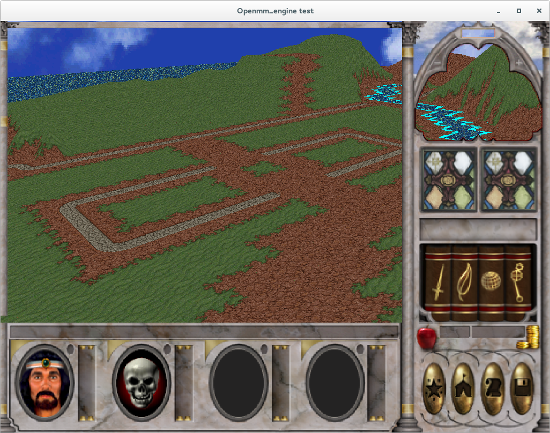
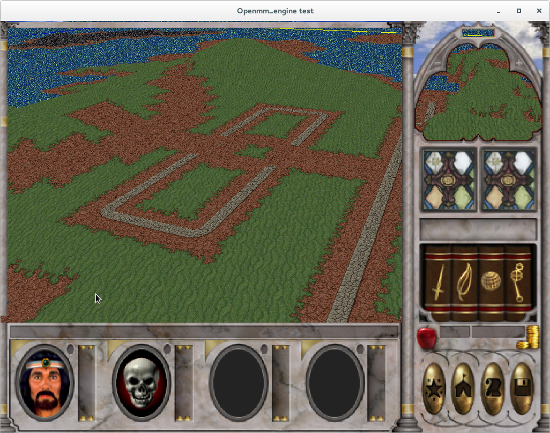
rudimental and not efficent rendering of water borders.

diff --git a/Engine/TextureManager.py b/Engine/TextureManager.py
@@ -26,7 +26,7 @@ class TextureManager(object):
         glDeleteTextures( 1, texture[name]['id'] ) # checks
         pass
 
-    def LoadAtlasTexture(self, tex_name, dirname, imglist): #TODO join implementation with LoadTexture
+    def LoadAtlasTexture(self, tex_name, dirname, imglist, trcol, trimg): #TODO join implementation with LoadTexture
         self.log.info("Loading megatexture \"{}\"".format(tex_name))
         self.log.info("max: {}".format(GL_MAX_TEXTURE_SIZE))
         texture_id = self.GetNewTextureId()
@@ -36,6 +36,23 @@ class TextureManager(object):
         width = img.size[0]
         height = img.size[1]
         img = img.convert("RGBA")
+
+
+        ret2 = self.lm.GetLod("bitmaps").GetFileData("", trimg)
+        imgt = 0
+        if ret2.get('img_size') is not None:
+            imgt = Image.new("P", ret2['img_size'])
+            imgt.putdata(ret2['data'])
+            imgt.putpalette(ret2['palette'])
+            imgt = imgt.convert("RGBA")
+
+        if trcol is not None:
+            for y in range(img.size[1]):
+                for x in range(img.size[0]):
+                    p = img.getpixel((x, y))
+                    if set(p) == set((trcol[0], trcol[1], trcol[2], 255)):
+                        img.putpixel((x, y), imgt.getpixel((x%imgt.size[0], y%imgt.size[1])))
+
         image  = img.tobytes("raw", "RGBA", 0, -1)
 
         glBindTexture     ( GL_TEXTURE_2D, texture_id )
@@ -52,7 +69,7 @@ class TextureManager(object):
                                     'hstep': ret['hstep'] }
         return True
 
-    def LoadTexture (self, dirname, sfile, transparency_color=None):
+    def LoadTexture (self, dirname, sfile, trcol=None):
         self.log.info("Loading \"{}/{}\"".format(dirname, sfile))
         ret = self.lm.GetLod(dirname).GetFileData("", sfile) # use try, get rid of ""
         texture_id = self.GetNewTextureId()
@@ -73,12 +90,12 @@ class TextureManager(object):
 
         img = img.convert("RGBA")
 
-        if transparency_color is not None and transparency_color != False: # I have to find a better way.. too slow
-            if transparency_color == True:
+        if trcol is not None and trcol != False: # I have to find a better way.. too slow
+            if trcol == True:
                 t = img.getpixel((0, 0))
             else:
-                t = transparency_color
-            self.transparency_color = t
+                t = trcol
+            self.trcol = t
             #data = numpy.array(img)
             #r, g, b, a = data.T
             #t_areas = (r == t[0]) & (b == t[2]) & (g == t[1])

diff --git a/Engine/MMap.py b/Engine/MMap.py
@@ -105,7 +105,7 @@ class MMap(object):
         self.log.info("Loading \"icons/dtile.bin\" {} bytes".format(len(self.dtilebin)))
 
         self.LoadTileData()
-        tm.LoadAtlasTexture("tiles_megatexture", "bitmaps", self.imglist )
+        tm.LoadAtlasTexture("tiles_megatexture", "bitmaps", self.imglist, (0,0xfc,0xfc), 'wtrtyl' )
         self.LoadMapData(name)
 
     def LoadMapData(self,name):

diff --git a/openmm_engine_test.py b/openmm_engine_test.py
@@ -133,10 +133,10 @@ def keyPressed(*args):
         eyez -= mov_step * lz
 
     if args[0] == 104:
-        eyey += mov_step
+        eyey += mov_step/2
 
     if args[0] == 108:
-        eyey -= mov_step
+        eyey -= mov_step/2
 
 def DrawBox(x,y,z, scale):
     glBindTexture(GL_TEXTURE_2D, tm.textures["cbsm"]['id']);
